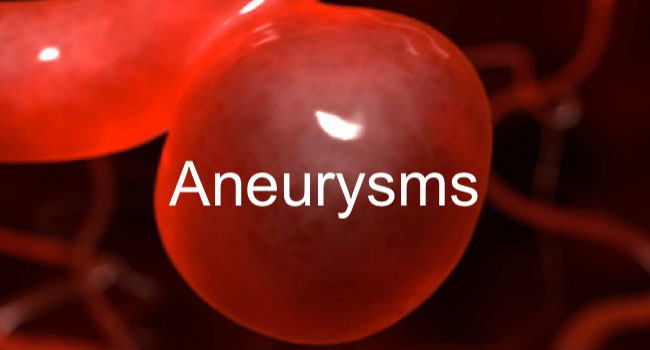
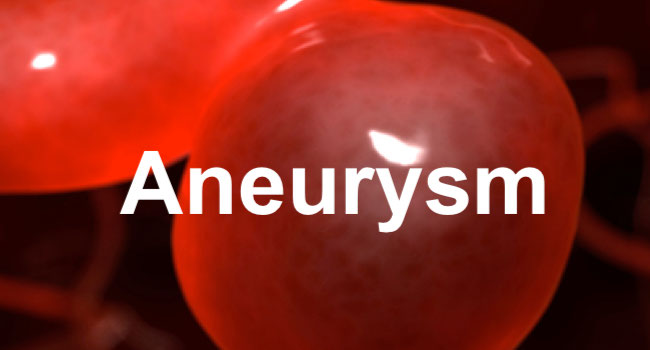
images

diff --git a/index.md b/index.md
@@ -22,31 +22,31 @@ sections:
     #section_id: portfolio
     #background_style: bg-dark
     projects:
-      - title: Aneurysms
+      - title: Aneurysm
         text: An aneurysm is a bulge in a blood vessel caused by a weakness in the blood vessel wall, usually where it branches.
         # the images are located in:
         # img/portfolio/fullsize
         # img/portfolio/thumbnails
         icon: 1.jpg
         url: '#'
-      - title: Project 2
-        text: This is a very short project description.
+      - title: Stroke
+        text: A stroke is a serious life-threatening medical condition that happens when the blood supply to part of the brain is cut off.
         icon: 2.jpg
         url: '#'
-      - title: Project 3
-        text: This is a very short project description.
+      - title: Arteriovenous fistula
+        text: An arteriovenous fistula is an abnormal connection or passageway between an artery and a vein.
         icon: 3.jpg
         url: '#'
-      - title: Project 4
-        text: This is a very short project description.
+      - title: Carotid-cavernous fistula
+        text: A carotid-cavernous fistula results from an abnormal communication between the arterial and venous systems within the cavernous sinus in the skull.
         icon: 4.jpg
         url: '#'
-      - title: Project 5
-        text: This is a very short project description.
+      - title: Tumour embolisation
+        text: Arterial embolisation is when a substance is injected into a blood vessel supplying a tumour, usually to reduce blood flow before surgery. 
         icon: 5.jpg
         url: '#'
-      - title: Project 6
-        text: This is a very short project description.
+      - title: Spinal vascular disease
+        text: Diseases of the blood vessels of the spine. 
         icon: 6.jpg
         url: '#'
 
